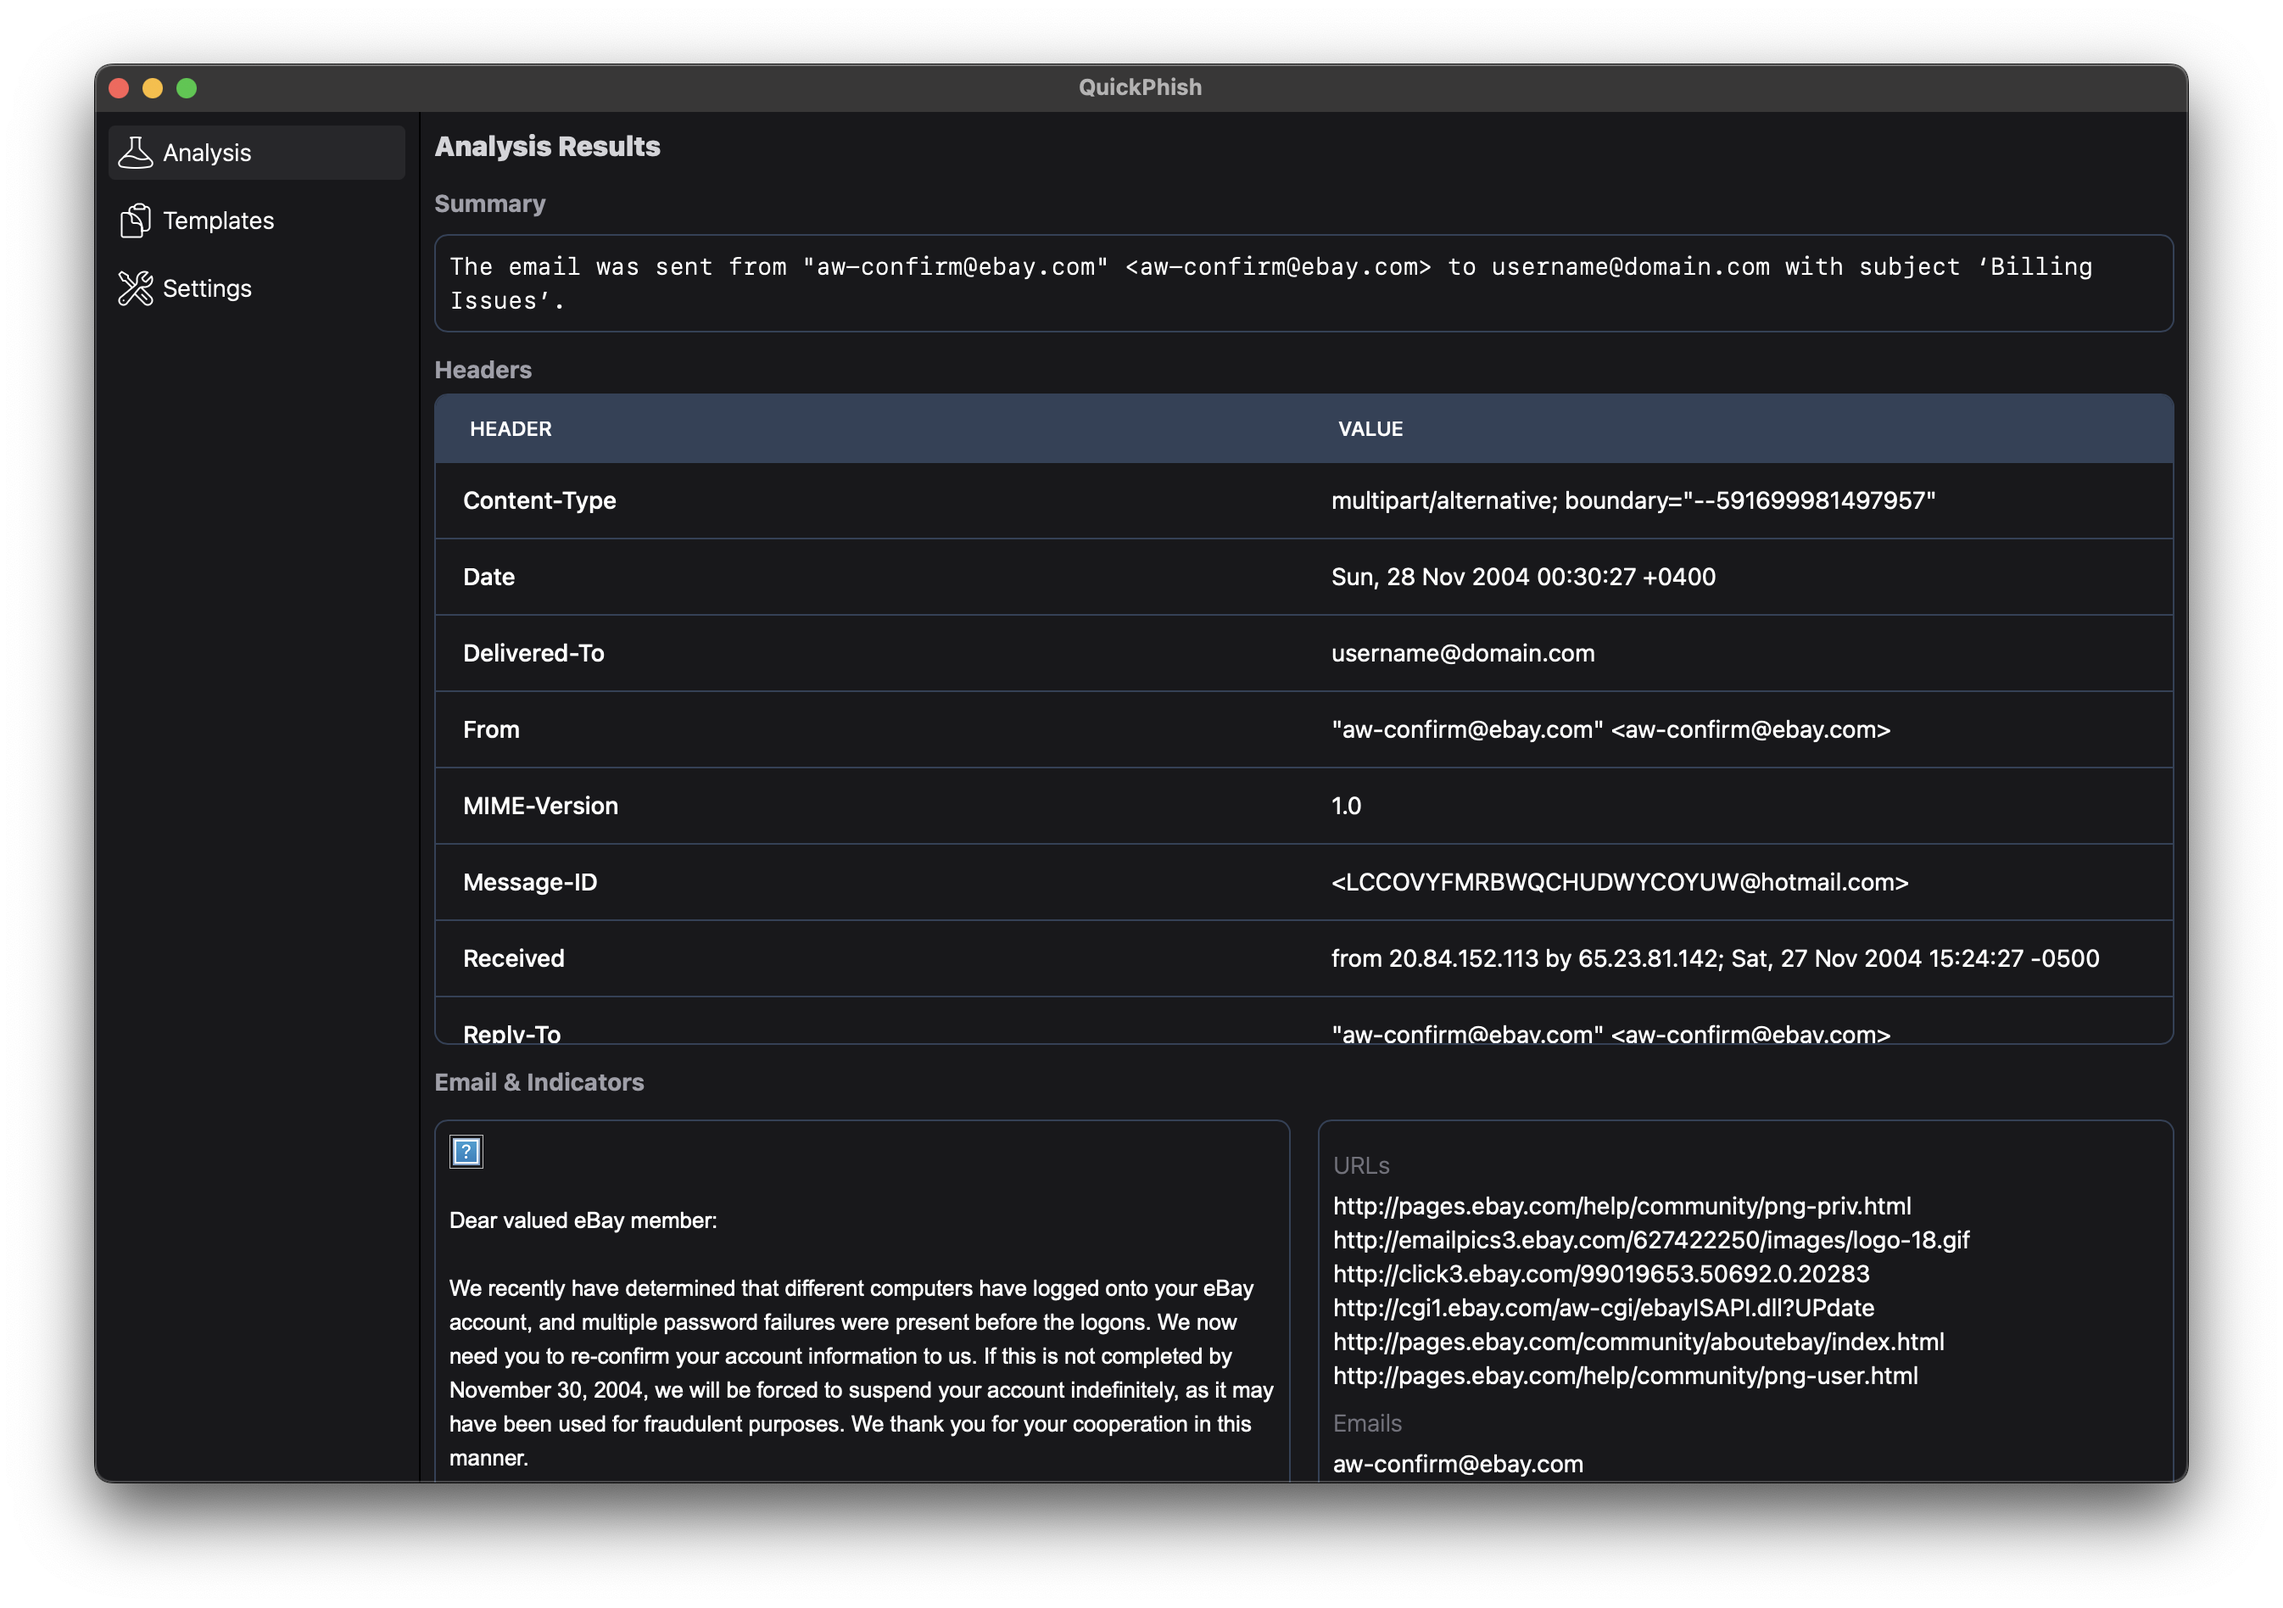
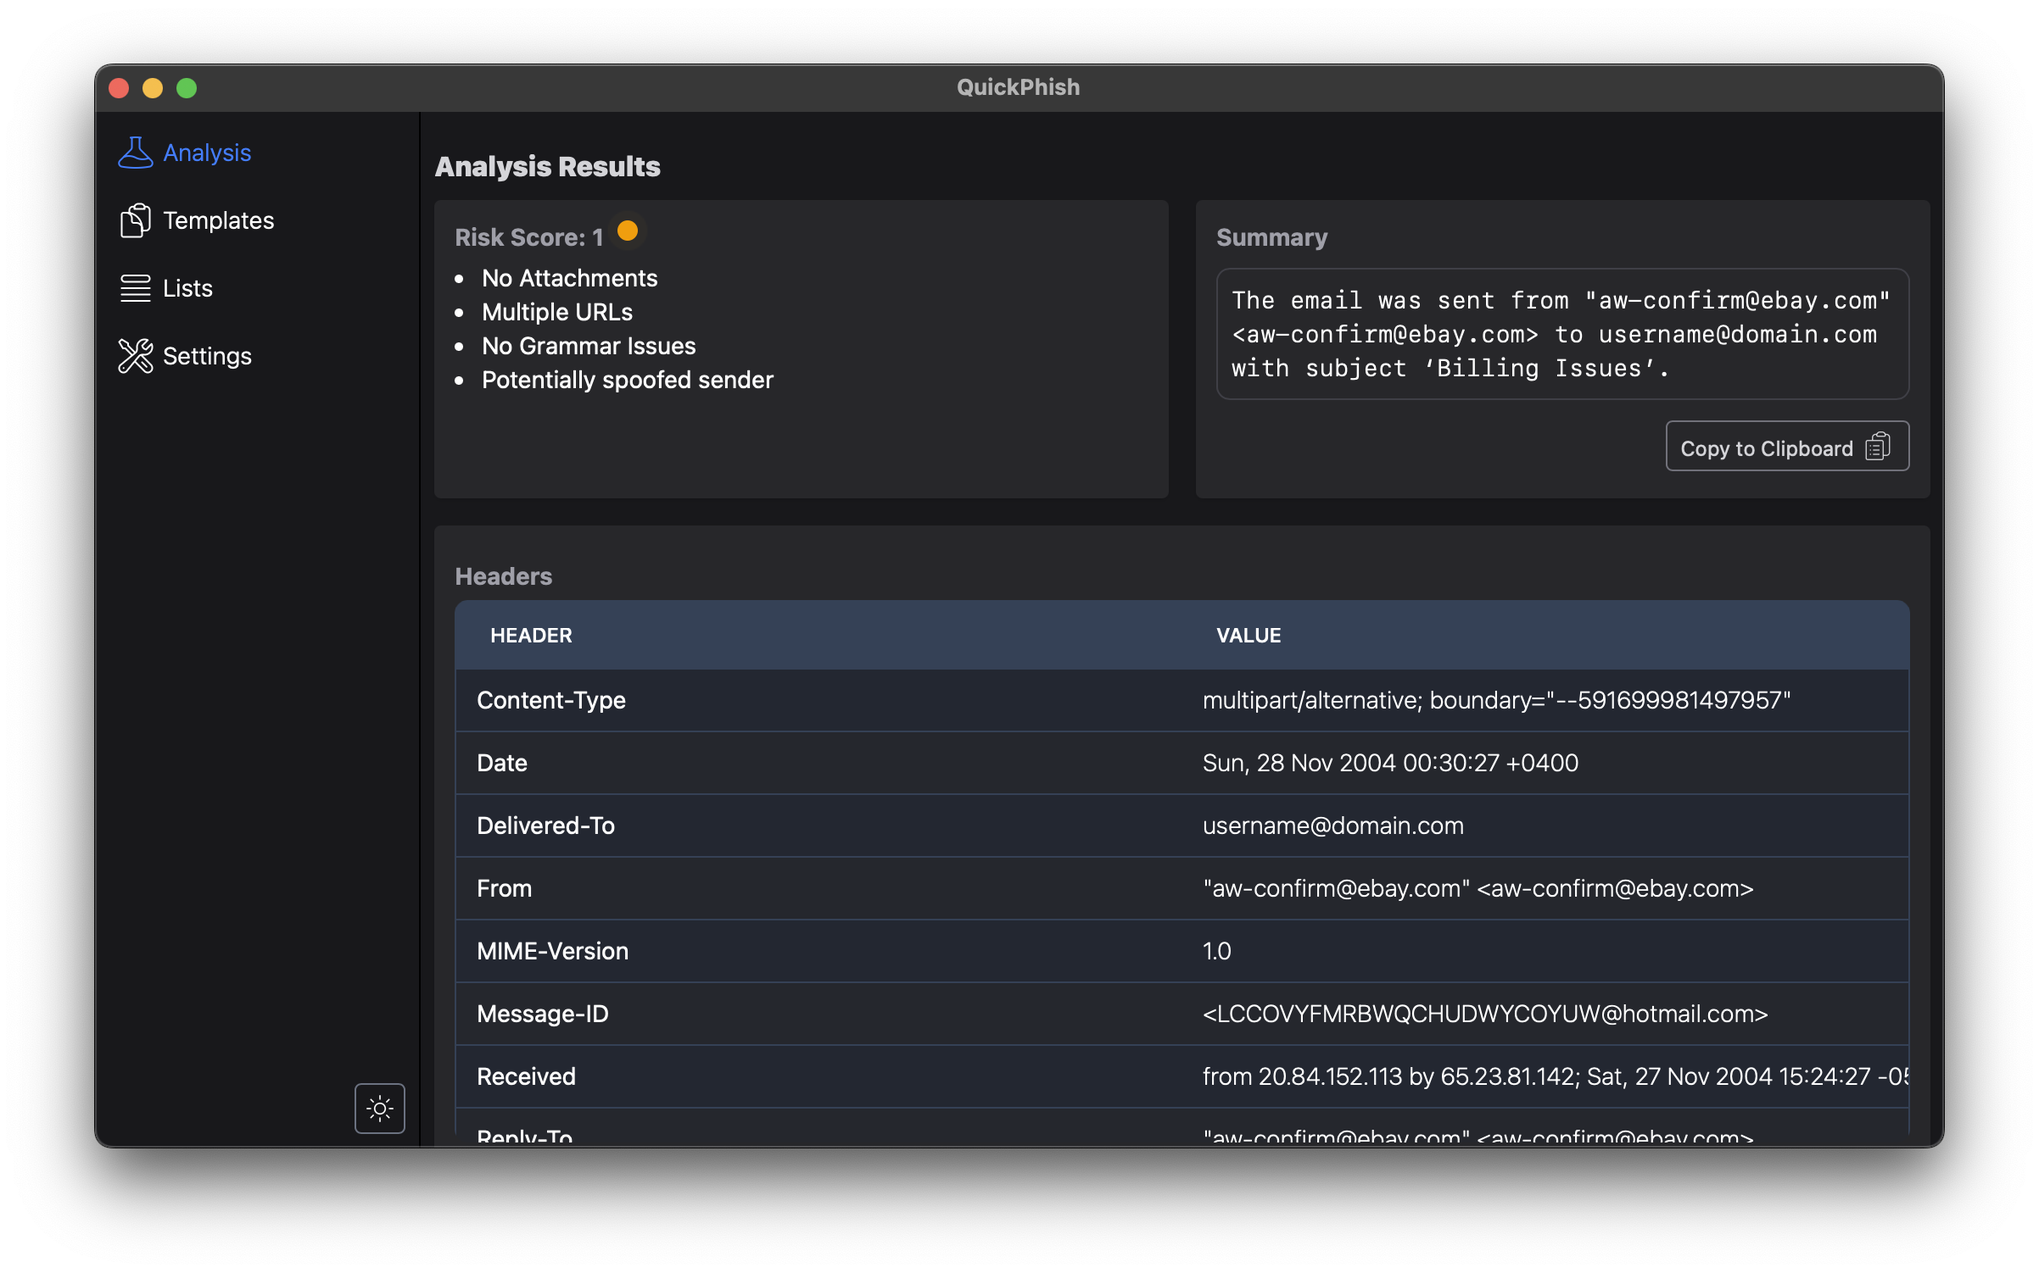
update readme

diff --git a/README.md b/README.md
@@ -2,6 +2,21 @@
 
 QuickPhish is a small application to quickly analyse phishing emails. The app is developed with Rust to support all OS and is a local desktop app to avoid having another browser tab somewhere open which you can't find anymore.
 
+![app screenshot](resources/app_screenshot_02.png)
+
+## Key Features 💯
+
+- Offline Analysis (no data leaves the user's machine 💻)
+- IOC extraction (URLs, domains, IP addresses, attachments)
+- Generates custom case notes (just copy & paste 🤓)
+- Customizable 
+    - White- & Blacklist 
+    - Custom Jinja Note Template
+    - Light & Dark Theme
+- User-friendly interface
+
+![app screenshot](resources/app_screenshot_03.png)
+
 ## How it Works
 
 Open a `.eml` file in **QuickPhish** and it will parse the email for you. It will write a quick summary for your case notes (using Jinja templates you can adjust yourself) and it will show you detailed information about the email, including:
@@ -12,6 +27,23 @@ Open a `.eml` file in **QuickPhish** and it will parse the email for you. It wil
 
 ![app screenshot](resources/app_screenshot_01.png)
 
+## FAQ
+
+### Can I use this tool for free?
+
+Yes! I know a lot of cyber security tools cost more than my bank account will likely ever see. With this tool I want to help companies without a massive security budget. 
+
+### Can I download a compiled version of this?
+
+Not yet, right now this is still in very early development. Once I have the first version ready you will be able to directly download the exectuable. 
+
+### How can I submit a feature request?
+
+If you have any thoughts on how this tool could be improved or just generally would like to see a specific feature, please open a GitHub issue. I will review them and see what I can make! 👍
+
+### I have more questions!
+
+Anything not mentioned here, feel free to reach out to me directly or visit my website [https://barracudabyte.de](https://barracudabyte.de).
 
 ## Frameworks
 
